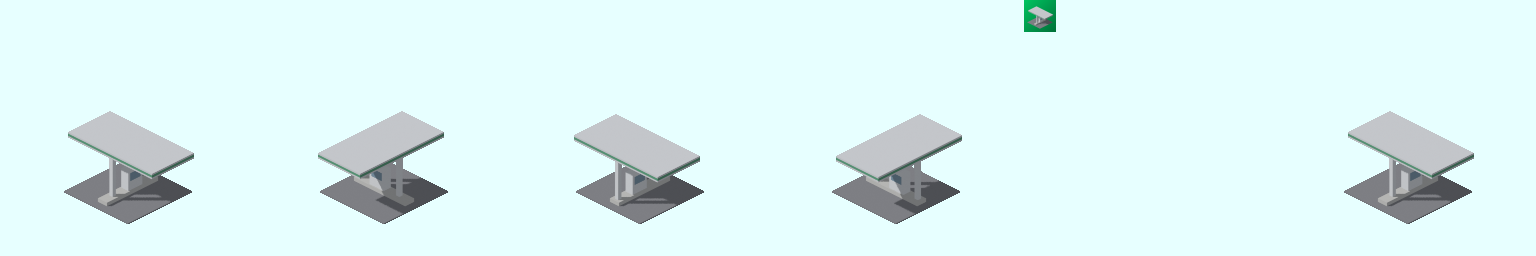
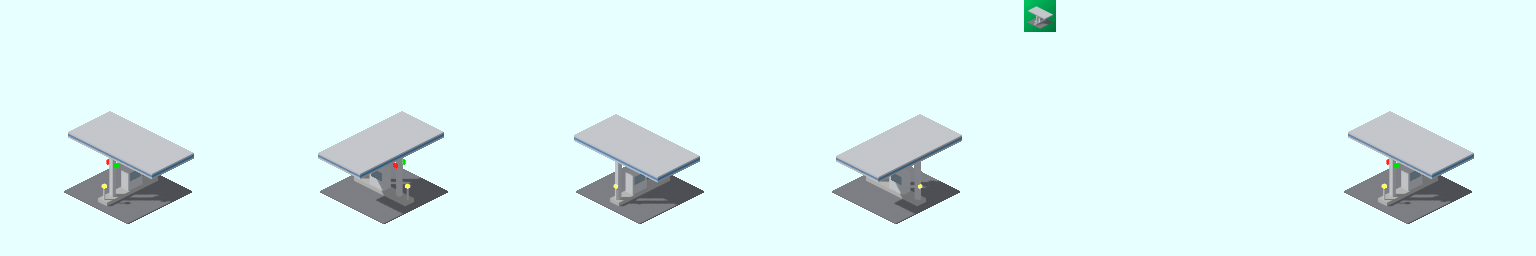
blender-poc: verify special colors (player colors and lights)
- Fix int16 overflow when matching special colors in finalize; road.png had
  14 stray non-darkening grey pixels that are now shifted away
- Let materials request a special color (special=...); render_cell draws an
  extra mask pass and make_sheet writes exact light colors or the nearest
  player-color shade after the accidental-color shift
- Tollbooth: player-color roof band, night-lit windows, lamps, red/green lights
- Add special.py (per-sheet/cell special color counts) and special_preview.py
  (day / recolored / night preview using the engine's palette formula)

diff --git a/addons/blender-poc/blender/render.py b/addons/blender-poc/blender/render.py
@@ -33,16 +33,34 @@ H = 16 / (PX_PER_UNIT * math.sin(math.radians(60)))
 
 TRANSPARENT = (231, 255, 255)   # #E7FFFF
 ALPHA_THRESHOLD = 25            # iss と同じ: これ未満は透過色にする
-SPECIAL_COLORS = {
-    (107, 107, 107), (155, 155, 155), (179, 179, 179), (201, 201, 201),
-    (223, 223, 223), (87, 101, 111), (127, 155, 241), (255, 255, 83),
-    (255, 33, 29), (1, 221, 1), (227, 227, 255), (193, 177, 209),
-    (77, 77, 77), (255, 1, 127), (1, 1, 255), (36, 75, 103), (57, 94, 124),
-    (76, 113, 145), (96, 132, 167), (116, 151, 189), (136, 171, 211),
-    (156, 190, 233), (176, 210, 255), (123, 88, 3), (142, 111, 4),
-    (161, 134, 5), (180, 157, 7), (198, 180, 8), (217, 203, 10),
-    (236, 226, 11), (255, 249, 13),
+# 特殊色（Simutrans 本体 descriptor/image.cc の rgbtab と同じ順）。makeobj は RGB が完全に一致した画素だけを特殊色にする
+def _hex(*v):
+    return [((x >> 16) & 255, (x >> 8) & 255, x & 255) for x in v]
+
+
+SPECIAL = {
+    # プレーヤーカラー（会社の色に置き換わる）。8段階の明るさ
+    "player1": _hex(0x244B67, 0x395E7C, 0x4C7191, 0x6084A7, 0x7497BD, 0x88ABD3, 0x9CBEE9, 0xB0D2FF),
+    "player2": _hex(0x7B5803, 0x8E6F04, 0xA18605, 0xB49D07, 0xC6B408, 0xD9CB0A, 0xECE20B, 0xFFF90D),
+    # 夜に光る色
+    "window_dark": _hex(0x57656F),    # 暗い窓。夜は黄色っぽく光る
+    "window_light": _hex(0x7F9BF1),   # 明るい窓。夜は青っぽく光る
+    "light_yellow": _hex(0xFFFF53),
+    "light_red": _hex(0xFF211D),
+    "light_green": _hex(0x01DD01),
+    "grey1": _hex(0x6B6B6B),          # 夜も暗くならない灰色（メニュー用）
+    "grey2": _hex(0x9B9B9B),
+    "grey3": _hex(0xB3B3B3),
+    "grey4": _hex(0xC9C9C9),
+    "grey5": _hex(0xDFDFDF),
+    "light_white": _hex(0xE3E3FF),    # 昼はほぼ白、夜は黄色っぽく光る
+    "window_lit1": _hex(0xC1B1D1),    # 窓。夜は黄色く光る
+    "window_lit2": _hex(0x4D4D4D),    # 窓。夜は黄色く光る
+    "light_purple": _hex(0xFF017F),
+    "light_blue": _hex(0x0101FF),
 }
+SPECIAL_COLORS = {c for colors in SPECIAL.values() for c in colors}
+assert len(SPECIAL_COLORS) == 31
 
 
 # ---------------------------------------------------------------- シーン設定
@@ -122,10 +140,15 @@ def noisy_material(name, rgb_a, rgb_b, scale=40.0, rough=0.8, emit=0.0, spec=Non
     return m
 
 
-def material(name, rgb, rough=0.8, metal=0.0, emit=0.0):
+def material(name, rgb, rough=0.8, metal=0.0, emit=0.0, special=None):
+    """special に SPECIAL の名前を渡すと、その材質が見えている画素を特殊色にする（render_cell と make_sheet で処理）。
+    プレーヤーカラーは光の当たり方で8段階のどれかを選ぶので、rgb は灰色にしておくと明暗がそのまま段階になる。"""
     if name in bpy.data.materials:
         return bpy.data.materials[name]
     m = bpy.data.materials.new(name)
+    if special:
+        assert special in SPECIAL, special
+        m["special"] = special
     m.use_nodes = True
     bsdf = m.node_tree.nodes["Principled BSDF"]
     bsdf.inputs["Base Color"].default_value = (*rgb, 1)
@@ -555,10 +578,14 @@ def build_tollbooth(rot_deg):
     """料金所風の建物。屋根は 13x6.5 でタイル(10x10)からはみ出す。"""
     m_conc = material("concrete", (0.66, 0.65, 0.62))
     m_white = material("booth", (0.86, 0.87, 0.88), rough=0.5)
-    m_glass = material("glass", (0.25, 0.38, 0.48), rough=0.15)
+    # 特殊色: 屋根の帯はプレーヤーカラー、窓は夜に光る窓、屋根の下に照明、ブースの上に赤と緑のランプ
+    m_glass = material("glass", (0.25, 0.38, 0.48), rough=0.15, special="window_dark")
     m_roof = material("roof", (0.80, 0.81, 0.83), rough=0.6)
-    m_band = material("band", (0.12, 0.42, 0.24))
+    m_band = material("band", (0.35, 0.35, 0.35), special="player1")
     m_road = material("asphalt", (0.28, 0.28, 0.30))
+    m_lamp = material("lamp", (1.0, 1.0, 0.6), emit=1.0, special="light_yellow")
+    m_red = material("lamp_red", (1.0, 0.1, 0.1), emit=1.0, special="light_red")
+    m_green = material("lamp_green", (0.0, 0.8, 0.0), emit=1.0, special="light_green")
 
     parts = {
         "road": (m_road, [box(0, 0, 0.05, 10, 10, 0.1)]),
@@ -568,6 +595,12 @@ def build_tollbooth(rot_deg):
         "pillars": (m_white, [box(0, -2.4, 3.0, 0.5, 0.5, 5.0), box(0, 3.4, 3.0, 0.5, 0.5, 5.0)]),
         "roof": (m_roof, [box(0, 0.5, 5.75, 13.0, 6.5, 0.7)]),
         "band": (m_band, [box(0, 0.5, 5.75, 13.06, 6.56, 0.28)]),
+        # 安全島の両端に照明灯（柱と光る頭）
+        "lamp_posts": (m_white, [box(0, y, 1.2, 0.15, 0.15, 1.8) for y in (-3.7, 3.7)]),
+        "lamps": (m_lamp, [box(0, y, 2.25, 0.4, 0.4, 0.3) for y in (-3.7, 3.7)]),
+        # 左の車線は赤（閉鎖）、右の車線は緑（開放）。ブース上の柱の両脇に向ける
+        "lamp_red": (m_red, [box(-0.6, -2.4, 4.6, 0.2, 0.5, 0.5)]),
+        "lamp_green": (m_green, [box(0.6, -2.4, 4.6, 0.2, 0.5, 0.5)]),
     }
     obs = [mesh_object(name, *merge(geo), mat) for name, (mat, geo) in parts.items()]
     for ob in obs:
@@ -577,11 +610,94 @@ def build_tollbooth(rot_deg):
 
 # ---------------------------------------------------------------- 描画と合成
 
+SPECIAL_NAMES = list(SPECIAL)
+
+
+def _code(k):
+    """マスク描画で k 番目の特殊色を表す赤の値（0-255）。"""
+    return (k + 1) * 12
+
+
+def _srgb_to_linear(v):
+    return v / 12.92 if v <= 0.04045 else ((v + 0.055) / 1.055) ** 2.4
+
+
+def _mask_materials():
+    """特殊色の材質ごとの発光マスク材質と、それ以外を隠す holdout 材質。"""
+    out = {}
+    for k, name in enumerate(SPECIAL_NAMES):
+        mname = "mask_" + name
+        m = bpy.data.materials.get(mname)
+        if m is None:
+            m = bpy.data.materials.new(mname)
+            m.use_nodes = True
+            nt = m.node_tree
+            nt.nodes.clear()
+            em = nt.nodes.new("ShaderNodeEmission")
+            em.inputs["Color"].default_value = (_srgb_to_linear(_code(k) / 255), 0, 0, 1)
+            em.inputs["Strength"].default_value = 1.0
+            o = nt.nodes.new("ShaderNodeOutputMaterial")
+            nt.links.new(em.outputs[0], o.inputs["Surface"])
+        out[name] = m
+    hold = bpy.data.materials.get("mask_holdout")
+    if hold is None:
+        hold = bpy.data.materials.new("mask_holdout")
+        hold.use_nodes = True
+        nt = hold.node_tree
+        nt.nodes.clear()
+        ho = nt.nodes.new("ShaderNodeHoldout")
+        o = nt.nodes.new("ShaderNodeOutputMaterial")
+        nt.links.new(ho.outputs[0], o.inputs["Surface"])
+    out[None] = hold
+    return out
+
+
 def render_cell(name):
+    """通常の描画に加えて、特殊色の材質があれば name_mask.png も描く（どの画素にどの特殊色を入れるか）。"""
     path = os.path.join(WORK, name + ".png")
-    bpy.context.scene.render.filepath = path
+    mask_path = os.path.join(WORK, name + "_mask.png")
+    scene = bpy.context.scene
+    scene.render.filepath = path
     bpy.ops.render.render(write_still=True)
+    if os.path.exists(mask_path):
+        os.remove(mask_path)
+    meshes = [ob for ob in scene.objects if ob.type == "MESH"]
+    if not any(s.material and s.material.get("special") for ob in meshes for s in ob.material_slots):
+        return path
+    masks = _mask_materials()
+    saved = []
+    for ob in meshes:
+        for s in ob.material_slots:
+            saved.append((s, s.material))
+            s.material = masks[s.material.get("special") if s.material else None]
+    scene.render.filepath = mask_path
+    bpy.ops.render.render(write_still=True)
+    for s, m in saved:
+        s.material = m
     return path
+
+
+def apply_special(rgb, render, mask):
+    """マスクで覆われた画素（半分以上覆われたものだけ。縁は普通の色のまま）を特殊色にする。"""
+    covered = mask[..., 3] >= 128
+    codes = np.array([_code(k) for k in range(len(SPECIAL_NAMES))])
+    # PNG は乗算済みでないアルファで保存されるので、赤の値がそのまま番号になる
+    k_of = np.abs(mask[..., 0].astype(np.int32)[..., None] - codes).argmin(axis=-1)
+    lum = render[..., :3].astype(np.float32) @ np.array([0.299, 0.587, 0.114])
+    n = 0
+    for k, name in enumerate(SPECIAL_NAMES):
+        sel = covered & (k_of == k)
+        if not sel.any():
+            continue
+        palette = np.array(SPECIAL[name])
+        if len(palette) == 1:
+            rgb[sel] = palette[0]
+        else:
+            # 明るさがいちばん近い段階を選ぶ
+            pl = palette.astype(np.float32) @ np.array([0.299, 0.587, 0.114])
+            rgb[sel] = palette[np.abs(lum[sel][:, None] - pl).argmin(axis=1)]
+        n += int(sel.sum())
+    return n
 
 
 def load_rgba8(path):
@@ -596,7 +712,8 @@ def load_rgba8(path):
 
 def finalize(sheet):
     """iss と同じ後処理: 特殊色を1ずらし、ほぼ透明な画素を #E7FFFF にする。"""
-    rgb = sheet[..., :3].astype(np.int16)
+    # int32 で計算する（int16 だと R*65536 が桁あふれして、特殊色を見逃したり関係ない色をずらしたりする）
+    rgb = sheet[..., :3].astype(np.int32)
     keys = rgb[..., 0] * 65536 + rgb[..., 1] * 256 + rgb[..., 2]
     special = np.isin(keys, [r * 65536 + g * 256 + b for r, g, b in SPECIAL_COLORS])
     rgb[special] = np.minimum(rgb[special] + 1, 255)
@@ -618,11 +735,18 @@ def save_rgb(path, rgb):
 
 def make_sheet(cells, rows, cols, out):
     sheet = np.zeros((rows * CELL, cols * CELL, 4), np.uint8)
+    masked = []
     for (r, c), path in cells.items():
-        sheet[r * CELL:(r + 1) * CELL, c * CELL:(c + 1) * CELL] = load_rgba8(path)
-    rgb, n_special = finalize(sheet)
+        sl = (slice(r * CELL, (r + 1) * CELL), slice(c * CELL, (c + 1) * CELL))
+        sheet[sl] = load_rgba8(path)
+        mask_path = path[:-4] + "_mask.png"
+        if os.path.exists(mask_path):
+            masked.append((sl, load_rgba8(mask_path)))
+    # 1) 描画で偶然できた特殊色を1ずらして消す 2) 材質で指定した特殊色を入れる（この順で）
+    rgb, n_shift = finalize(sheet)
+    n_set = sum(apply_special(rgb[sl], sheet[sl], mask) for sl, mask in masked)
     save_rgb(out, rgb)
-    print(f"[sheet] {out} special-color pixels shifted: {n_special}")
+    print(f"[sheet] {out} special colors: shifted {n_shift}, set {n_set}")
 
 
 # ---------------------------------------------------------------- 各アドオン

diff --git a/addons/blender-poc/blender/special_preview.py b/addons/blender-poc/blender/special_preview.py
@@ -1,0 +1,59 @@
+"""特殊色の見え方の再現: シートの1行目のセルを「昼」「会社の色を変えたとき」「夜」で並べた画像を作る。
+
+使い方（アドオンのディレクトリで）:
+    blender -b --factory-startup --python blender/special_preview.py -- src/tollbooth.png 4 docs/special_preview.png
+
+色の置き換えは Simutrans 本体 display/simgraph16.cc の calc_base_pal_from_night_shift と同じ式
+（夜の段階 4、light_level 0）。ゲーム内の色は RGB555/565 に丸められるので、細かい値は少し違う。
+"""
+import os
+import sys
+
+import bpy
+import numpy as np
+
+sys.path.insert(0, os.path.dirname(os.path.abspath(__file__)))
+from render import SPECIAL, CELL, TRANSPARENT  # noqa: E402
+
+# special_pal の 5 番目の段（赤橙）。会社の色をこれに変えたときの見え方にする
+RED = [(86, 32, 14), (110, 40, 16), (134, 48, 18), (158, 57, 20), (182, 65, 22), (206, 74, 24), (230, 82, 26), (255, 91, 28)]
+# display_night_lights（夜の光の色）。並びは SPECIAL の player1/player2 より後ろと同じ
+NIGHT_LIGHTS = {
+    "window_dark": (0xD3, 0xC3, 0x80), "window_light": (0x80, 0xC3, 0xD3), "light_white": (0xFF, 0xFF, 0xE3),
+    "window_lit1": (0xD3, 0xC3, 0x80), "window_lit2": (0xD3, 0xC3, 0x80), "light_purple": (0xE1, 0x00, 0xE1),
+}
+NIGHT = 4
+RG, B = 0.75 ** NIGHT, 0.83 ** NIGHT
+
+args = sys.argv[sys.argv.index("--") + 1:]
+src, cols, out = args[0], int(args[1]), args[2]
+img = bpy.data.images.load(os.path.abspath(src))
+w, h = img.size
+px = np.empty(w * h * 4, np.float32)
+img.pixels.foreach_get(px)
+rgb = (np.flipud(px.reshape(h, w, 4))[:CELL, :cols * CELL, :3] * 255 + 0.5).astype(np.int32)
+keys = rgb[..., 0] * 65536 + rgb[..., 1] * 256 + rgb[..., 2]
+bg = np.all(rgb == TRANSPARENT, axis=-1)
+
+recolor = rgb.copy()
+night = (rgb * np.array([RG, RG, B])).astype(np.int32)
+for name, colors in SPECIAL.items():
+    for i, c in enumerate(colors):
+        sel = keys == c[0] * 65536 + c[1] * 256 + c[2]
+        if name == "player1":
+            recolor[sel] = RED[i]
+            night[sel] = (np.array(c) * np.array([RG, RG, B])).astype(np.int32)
+        elif name == "player2":
+            night[sel] = (np.array(c) * np.array([RG, RG, B])).astype(np.int32)
+        else:
+            night[sel] = NIGHT_LIGHTS.get(name, c)  # 光の色は暗くならない
+night[bg] = (48, 52, 64)
+rows = np.concatenate([rgb, recolor, night], axis=0)
+rows = rows.repeat(2, 0).repeat(2, 1)
+H, W, _ = rows.shape
+o = bpy.data.images.new("o", W, H)
+o.pixels.foreach_set((np.flipud(np.concatenate([rows, np.full((H, W, 1), 255)], 2)).astype(np.float32) / 255).ravel())
+o.filepath_raw = os.path.abspath(out)
+o.file_format = "PNG"
+o.save()
+print("[preview]", out)

diff --git a/addons/blender-poc/blender/special.py b/addons/blender-poc/blender/special.py
@@ -1,0 +1,43 @@
+"""特殊色の検査: シート画像に特殊色がどれだけ含まれるかを、種類・セルごとに数える。
+
+使い方（アドオンのディレクトリで）:
+    blender -b --factory-startup --python blender/special.py -- src/track.png src/tollbooth.png ...
+
+意図しない特殊色は render.py の後処理で 1 ずらして消している。ここで 0 になっていれば消えている。
+意図して入れた特殊色（材質に special を付けたもの）は、入れたセルにだけ出ていればよい。
+"""
+import os
+import sys
+
+import bpy
+import numpy as np
+
+sys.path.insert(0, os.path.dirname(os.path.abspath(__file__)))
+from render import SPECIAL, SPECIAL_COLORS, CELL  # noqa: E402
+
+# 後処理の「1ずらす」が別の特殊色に当たらないこと
+for r, g, b in SPECIAL_COLORS:
+    shifted = (min(r + 1, 255), min(g + 1, 255), min(b + 1, 255))
+    assert shifted not in SPECIAL_COLORS, f"ずらした先も特殊色: {(r, g, b)} -> {shifted}"
+print("== ずらした先が特殊色になる色: なし")
+
+name_of = {c: f"{name}[{i}]" if len(cs) > 1 else name for name, cs in SPECIAL.items() for i, c in enumerate(cs)}
+
+for path in sys.argv[sys.argv.index("--") + 1:]:
+    img = bpy.data.images.load(os.path.abspath(path), check_existing=False)
+    w, h = img.size
+    px = np.empty(w * h * 4, np.float32)
+    img.pixels.foreach_get(px)
+    rgb = (np.flipud(px.reshape(h, w, 4))[..., :3] * 255 + 0.5).astype(np.int32)
+    keys = rgb[..., 0] * 65536 + rgb[..., 1] * 256 + rgb[..., 2]
+    total = 0
+    lines = []
+    for c, name in name_of.items():
+        ys, xs = np.nonzero(keys == c[0] * 65536 + c[1] * 256 + c[2])
+        if len(ys):
+            cells = sorted({(y // CELL, x // CELL) for y, x in zip(ys, xs)})
+            lines.append(f"    {name:16s} {len(ys):6d}px  セル {', '.join(f'{r}.{c}' for r, c in cells)}")
+            total += len(ys)
+    print(f"== {path}: 特殊色 {total}px")
+    for line in lines:
+        print(line)
